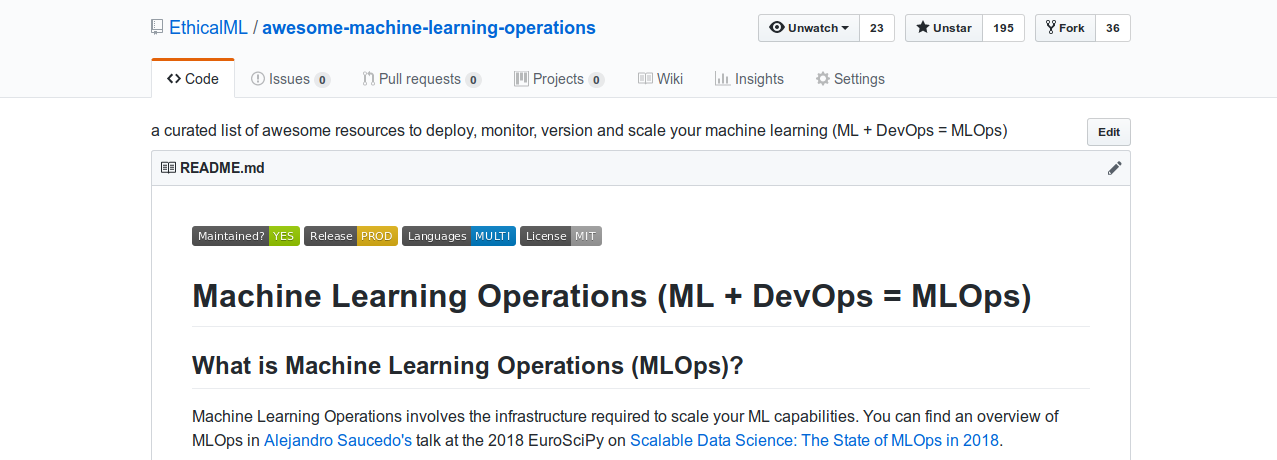
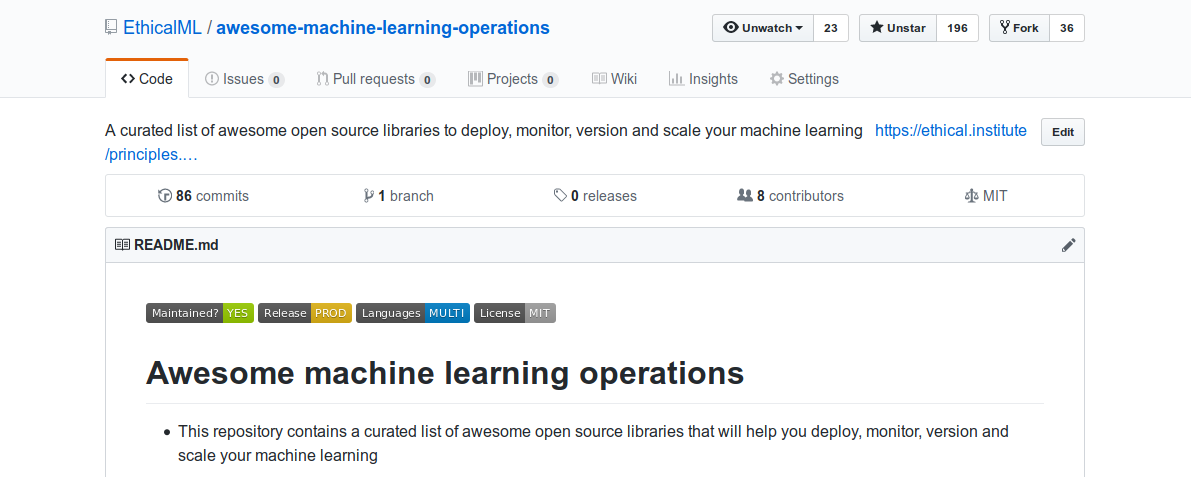
updated readme, presentation finished

diff --git a/index.html b/index.html
@@ -119,5 +119,7 @@
       });
     </script>
 
+    <img style="z-index:1000; position: absolute; top: 100px; right: -100px; transform: rotate(45deg);" src="images/ribbonlink.png" alt="">
+
   </body>
 </html>

diff --git a/contents.md b/contents.md
@@ -8,31 +8,17 @@
   <br />
     Alejandro Saucedo | <a href="">a@ethical.institute</a><br/><br/>
     Twitter: <a href="http://twitter.com/AxSaucedo">@AxSaucedo</a><br/>
-    Slides: <a href="http://bit.ly/mlops19">bit.ly/mlops19</a><br/>
   <br />
 </p>
 
 [NEXT]
 <!-- .slide: data-background="images/parti.png" class="background smallquote" style="color: white" -->
-Data science generalised in two workflows
 
-* Model Development
-* Model Serving
-
+## Small data science projects
 ![classification_large](images/ml-pipeline.png)
 <!-- .element: style="background-color: white !important" -->
 
-[NEXT]
-<!-- .slide: data-background="images/parti.png" class="background smallquote" style="color: white" -->
-
-If we have a small data science project...
-* Small number of models to maintain
-* Knowledgee in head of data scientists, engineers, etc
-* Each has own methods for tracking progress
-* The impact of errors is relatively lower
-
-<br>
-### It all works relatively well!
+### Works relatively well
 
 
 [NEXT]
@@ -77,27 +63,6 @@ As our data science requirements grow...
 #### When stuff goes wrong it's hard to trace back
 ![classification_large](images/gitblame.jpg)
 
-[NEXT]
-<!-- .slide: data-background="images/parti.png" class="background smallquote" style="color: white" -->
-## It's challenging
-![full_height](images/mleng-roles.png)
-
-
-[NEXT SECTION]
-<!-- .slide: data-background="images/partistat.png" class="background smallquote" style="color: white" -->
-
-# 2. Principles
-
-[NEXT]
-<!-- .slide: data-background="images/partistat.png" class="background smallquote" style="color: white" -->
-
-<h1 style="color: white !important">Awesome <font style="color:#00ffda">ML</font>Ops</h1>
-<h4>a curated list of open source frameworks based on the <a href="https://ethical.institute/principles.html" style="color: #00ffda">8 principles</a> for responsible ml.</h4>
-![classification_large](images/mlops-now.png)
-  <a style="color:#00ffda" href="https://bit.ly/awesome-mlops">bit.ly/awesome-mlops</a>
-  <br />
-  <br />
-
 
 [NEXT]
 <!-- .slide: data-background="images/partistat.png" class="background smallquote" style="color: white" -->
@@ -112,6 +77,22 @@ As our data science requirements grow...
 ### So should your infrastructure
 
 ![classification_large](images/mlops1.png)
+
+[NEXT]
+<!-- .slide: data-background="images/parti.png" class="background smallquote" style="color: white" -->
+## It's challenging
+![full_height](images/mleng-roles.png)
+
+
+[NEXT]
+<!-- .slide: data-background="images/partistat.png" class="background smallquote" style="color: white" -->
+
+<h1 style="color: white !important">Awesome <font style="color:#00ffda">ML</font>Ops</h1>
+<h4>Libraries to deploy, version, monitor & scale ML</h4>
+![classification_large](images/mlops-now.png)
+  <a style="color:#00ffda" href="https://bit.ly/awesome-mlops">bit.ly/awesome-mlops</a>
+  <br />
+  <br />
 
 
 [NEXT]
@@ -132,14 +113,11 @@ As our data science requirements grow...
 <img src="images/mlops2.png" alt="">
 </div>
 
-
-[NEXT]
+[NEXT SECTION]
 <!-- .slide: data-background="images/partistat.png" class="background smallquote" style="color: white" -->
-## Reproducibility
-Model & data provenance
-
+# 2.1 Reproducibility
 ![classification_large](images/mltemp6.png)
-
+### Model & data provenance
 
 
 [NEXT]
@@ -283,14 +261,14 @@ def fit_and_predict(data):
 ![classification_large](images/pachyderm-dashboard.png)
 
 
-[NEXT]
+[NEXT SECTION]
 <!-- .slide: data-background="images/partistat.png" class="background smallquote" style="color: white" -->
 
-# Model Orchestration
+# 2.2 Model Orchestration
 
 ![classification_large](images/mltemp3.png)
 
-Covers complexities of serving models in production
+### Training & serving at scale
 
 
 [NEXT]
@@ -374,9 +352,9 @@ Unifying multiple external machine learning libraries on a single API
 ![classification_large](images/deepdetect.png)
 
 
-[NEXT]
+[NEXT SECTION]
 <!-- .slide: data-background="images/partistat.png" class="background smallquote" style="color: white" -->
-# Explainability
+# 2.3 Explainability
 Tackling "black box model" situations
 
 ![classification_large](images/mlops2.png)
@@ -480,25 +458,18 @@ Analyse datasets, evaluate models and monitor production
 [NEXT SECTION]
 <!-- .slide: data-background="images/network-background.jpg" class="background smallest" -->
 
-## Scalable Machine Learning
-> Motivations
-> <br>
-> <br>
-> Concepts
-> <br>
-> <br>
-> Existing Tools
+## Much more content
 
-####  Slides at: <a style="color: cyan" href="#">bit.ly/awesome-mlops</a>
+||||
+|-|-|-|
+|Explainability |Privacy | Versioning|
+|Orchestration|Feature Engineering|AutoML|
+| Notebooks | Visualisation | NLP |
+| ETL | Storage | FaaS |
+| Computation | Serialisation | Compiler  |
 
-
-[NEXT]
-<!-- .slide: data-background="images/network-background.jpg" class="background" -->
-### Scalable Machine Learning
-https://bit.ly/scalable-data-science
-
-### Awesome MLOps List
-http://bit.ly/awesome-mlops
+<br>
+### Check it out & add more libraries
 
 [NEXT]
 <!-- .slide: data-background="images/network-background.jpg" class="background" -->

diff --git a/README.md b/README.md
@@ -2,5 +2,35 @@
 
 This repository contains a presentation of the state of machine learning operations in 2019. 
 
-## [View Live Presentation](https://ethicalml.github.io/state-of-mlops-2019/#/)
+* [View Live Presentation](https://ethicalml.github.io/state-of-mlops-2019/#/)
+* [Link to Awesome MLOps Repo](https://github.com/EthicalML/awesome-machine-learning-operations)
+
+## Links to awesome MLOps libraries
+
+* [1. Explaining black box models and datasets](https://github.com/EthicalML/awesome-machine-learning-operations#1-explaining-black-box-models-and-datasets)
+* [2. Privacy preserving machine learning](https://github.com/EthicalML/awesome-machine-learning-operations#2-privacy-preserving-machine-learning)
+* [3. Model and data versioning](https://github.com/EthicalML/awesome-machine-learning-operations#3-model-and-data-versioning)
+* [4. Model deployment and orchestration frameworks](https://github.com/EthicalML/awesome-machine-learning-operations#4-model-deployment-and-orchestration-frameworks)
+* [5. Feature engineering automation](https://github.com/EthicalML/awesome-machine-learning-operations#5-feature-engineering-automation)
+* [6. Neural architecture search](https://github.com/EthicalML/awesome-machine-learning-operations#6-neural-architecture-search)
+* [7. Data science notebook frameworks](https://github.com/EthicalML/awesome-machine-learning-operations#7-data-science-notebook-frameworks)
+* [8. Industrial strength visualisation libraries](https://github.com/EthicalML/awesome-machine-learning-operations#8-industrial-strength-visualisation-libraries)
+* [9. Industrial strength nlp](https://github.com/EthicalML/awesome-machine-learning-operations#9-industrial-strength-nlp)
+* [10. Data pipeline etl frameworks](https://github.com/EthicalML/awesome-machine-learning-operations#10-data-pipeline-etl-frameworks)
+* [11. Data storage optimisation](https://github.com/EthicalML/awesome-machine-learning-operations#11-data-storage-optimisation)
+* [12. Function as a service frameworks](https://github.com/EthicalML/awesome-machine-learning-operations#12-function-as-a-service-frameworks)
+* [13. Computation load distribution frameworks](https://github.com/EthicalML/awesome-machine-learning-operations#13-computation-load-distribution-frameworks)
+* [14. Model serialisation formats](https://github.com/EthicalML/awesome-machine-learning-operations#14-model-serialisation-formats)
+* [15. Compiler optimisation frameworks](https://github.com/EthicalML/awesome-machine-learning-operations#15-compiler-optimisation-frameworks)
+* [16. Commercial data science platforms](https://github.com/EthicalML/awesome-machine-learning-operations#16-commercial-data-science-platforms)
+* [17. Commercial etl platforms](https://github.com/EthicalML/awesome-machine-learning-operations#17-commercial-etl-platforms)
+
+## Speaker: Alejandro Saucedo
+* Linkedin: https://linkedin.com/in/AxSaucedo/
+* Twitter: https://twitter.com/AxSaucedo/
+* Github: https://github.com/axsauze/
+* About: Alejandro is the Chief Scientist at the Institute for Ethical AI & Machine Learning, where he leads highly technical research on machine learning explainability, bias evaluation, reproducibility and responsible design. With over 10 years of software development experience, Alejandro has held technical leadership positions across hyper-growth scale-ups and tech giants including Eigen Tchnologies, Bloomberg LP and Hack Partners. He has a strong track record building departments of machine learning engineers from scratch, and leading the delivery of large-scale machine learning system across the financial, insurance, legal, transport, manufacturing and construction sectors (in Europe, US and Latin America).
+
+## About The Institute for Ethical AI & Machine Learning
+We are a research centre based in the UK led by a group of machine learning researchers and engineers, and supported by our large set of cross functional members (ethicists, philosophers, psychologists, experts and policy-makers). We carry out highly technical and cross-functional research to answer some of the most challenging questions present in the intersection of AI / Machine Learning and industry from both a strategic and hands-on perspective.
 
